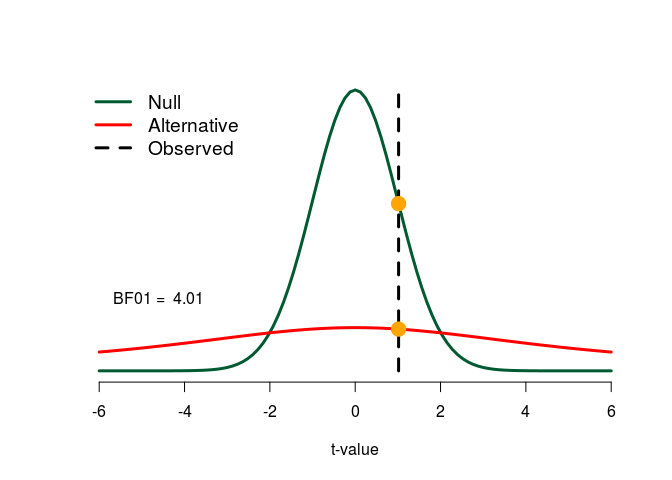
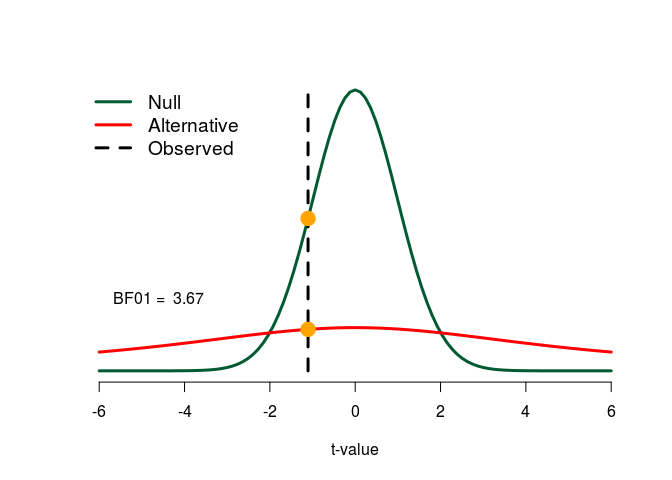
change to readme

diff --git a/README.md b/README.md
@@ -157,7 +157,7 @@ marginal likelihoods is the Bayes factor.
 Evidence for the null hypothesis
 --------------------------------
 
-One of the strengths of Bayes factors is that they can relative quantify
+One of the strengths of Bayes factors is that they can quantify relative
 evidence in favor of a null hypothesis; classical significance tests
 relying on p-values do not offer this feature. Look at the following
 example code:
@@ -190,7 +190,7 @@ can compute this Bayes factor as the ratio of two marginal likelihoods:
     BF01
 
     ##        t 
-    ## 4.006515
+    ## 3.673082
 
 Here, the probability of the data under the null hypothesis is given by
 the probability density function for the t distribution `dt`. To compute
@@ -211,7 +211,7 @@ analysis above, we can also use the following code employing the package
 
     ## Bayes factor analysis
     ## --------------
-    ## [1] Null, mu1-mu2=0 : 4.006515 ±0%
+    ## [1] Null, mu1-mu2=0 : 3.673082 ±0%
     ## 
     ## Against denominator:
     ##   Alternative, r = 0.707106781186548, mu =/= 0 
